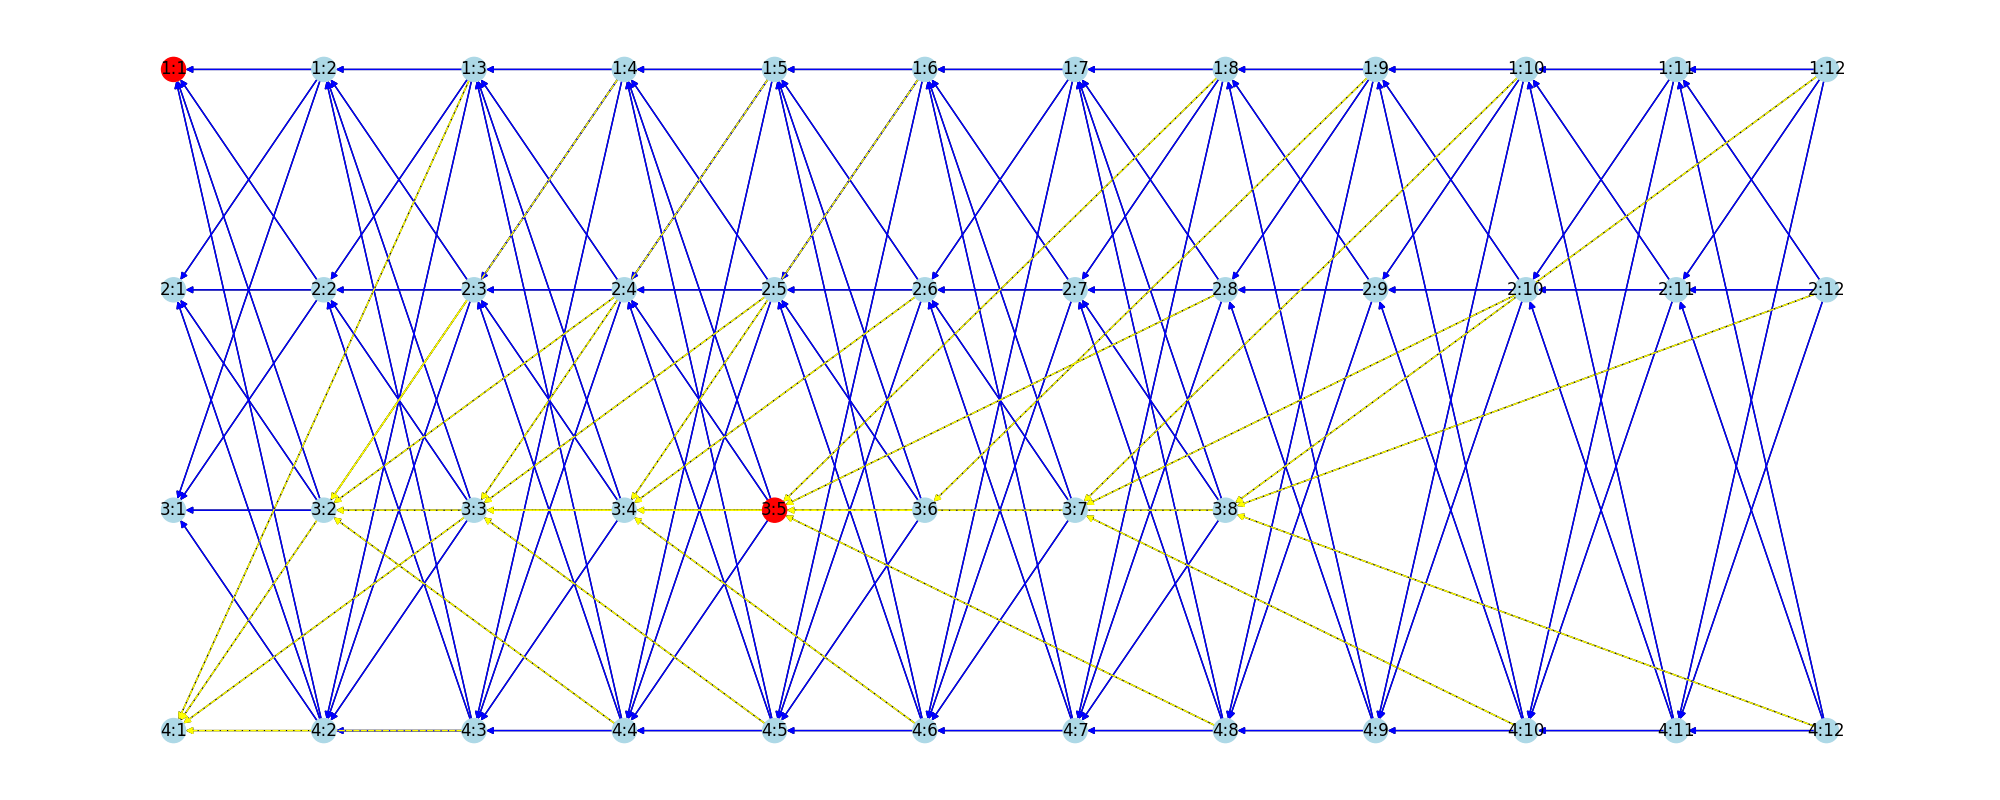
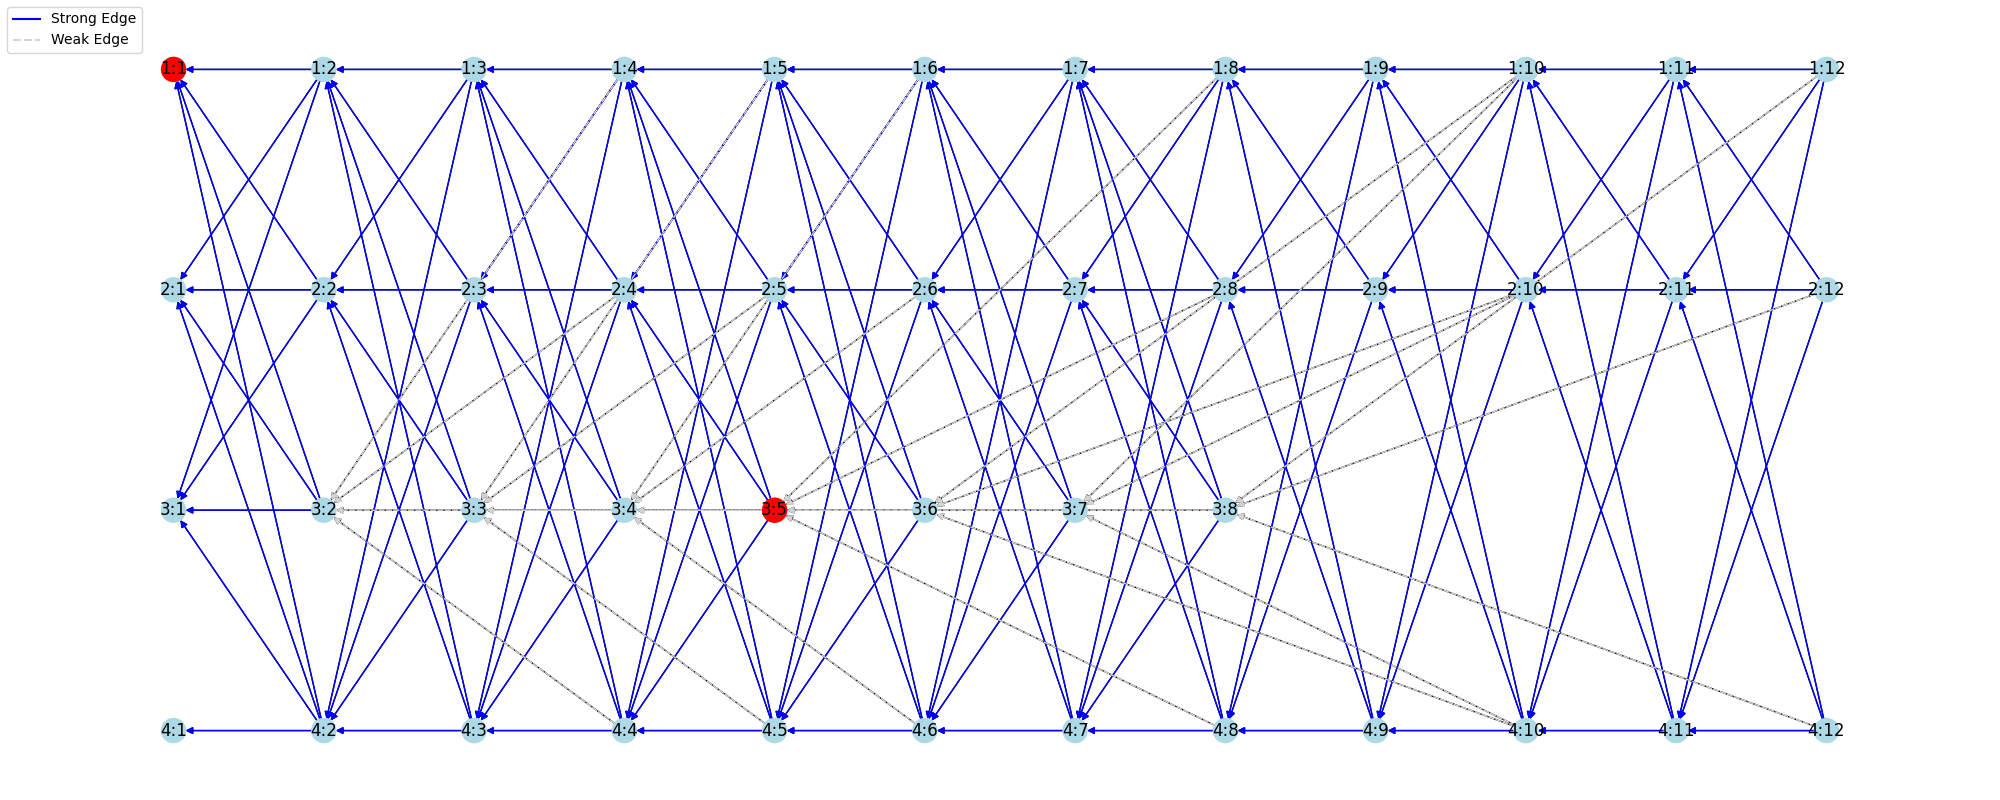
fetch more dag snapshots

diff --git a/DCDN_Node_Configuration/application.py b/DCDN_Node_Configuration/application.py
@@ -21,6 +21,7 @@ import random
 from secretshare import Secret, SecretShare, Share
 import networkx as nx
 import matplotlib.pyplot as plt
+import matplotlib.lines as mlines
 
 app = Flask(__name__)
 logging.basicConfig(level = logging.INFO) 
@@ -632,6 +633,8 @@ def wave_ready(w):
             leader_stack.push(leader_vertex_prime)
             leader_vertex = leader_vertex_prime
     decided_wave = w
+    if len(leader_stack)>1:
+        visualize_dag()
     order_vertices(leader_stack)
     
 def order_vertices(leader_stack):
@@ -669,7 +672,8 @@ def order_vertices(leader_stack):
                     if not file_exists:
                         writer.writerow(['Nnodes', 'TimeIdentified', 'TimeBlocked', 'TimeDelta'])                    
                     writer.writerow([my_node.total_nodes, identified_time, block_time, block_time-identified_time])
-        
+                visualize_dag()
+                
     unblock_file_name = f"metrics/unblock_time_delta_node_{my_node.node_id}.csv"
     file_exists = os.path.exists(unblock_file_name)
     
@@ -683,7 +687,8 @@ def order_vertices(leader_stack):
                     if not file_exists:
                         writer.writerow(['Nnodes', 'TimeIdentified', 'TimeUnblocked', 'TimeDelta'])                    
                     writer.writerow([my_node.total_nodes, identified_time, unblock_time, unblock_time-identified_time])
-    
+                visualize_dag()
+                
     request_rate_track.update_blocklist(my_node.ips_to_block)
     
 def a_deliver(vertex):
@@ -908,9 +913,18 @@ def visualize_dag():
     nx.draw_networkx_edges(G, pos, edgelist=strong_edges, edge_color='blue')
     
     weak_edges = [(u, v) for u, v, d in G.edges(data=True) if d['edge_type'] == 'weak']
-    nx.draw_networkx_edges(G, pos, edgelist=weak_edges, edge_color='yellow', style='dashed')
+    nx.draw_networkx_edges(G, pos, edgelist=weak_edges, edge_color='lightgrey', style='dashed')
             
     plt.title('DAG of vertices')
+    
+    # Create custom lines for the legend to represent what each line style means
+    strong_edge_legend = mlines.Line2D([], [], color='blue', linestyle='solid', label='Strong Edge')
+    weak_edge_legend = mlines.Line2D([], [], color='lightgrey', linestyle='dashed',  label='Weak Edge')
+
+    # Add the legend to the plot
+    plt.legend(handles=[strong_edge_legend, weak_edge_legend], loc='upper left')
+    
+    # plt.tight_layout()
     plt.savefig(f"plot_node{my_node.node_id}_{visualize_counter}.png")
     visualize_counter +=1
     logging.info("DAG visualization completed")

diff --git a/DCDN_Node_Configuration/rate_track_test.py b/DCDN_Node_Configuration/rate_track_test.py
@@ -1,0 +1,32 @@
+'''
+This script will make a request of 200 in a 5 min window period.
+'''
+import requests
+import time
+
+def send_requests(target_url, uri_list, total_requests):
+    '''
+    The function makes a total of 'total_requests' requests within window_seconds 
+    The request uri is distributed equally among all the uris in the uri_list
+    '''
+    ind = 0
+    total_uri = len(uri_list)
+    for i in range(1, total_requests+1):
+        try:
+            response = requests.get(target_url+uri_list[ind])
+            print(f"{time.asctime()} Request {i}: Status Code {response.status_code}")
+        except requests.exceptions.RequestException as e:
+            print(f"Request {i}: Failed with error {e}")
+        ind = (ind + 1)%total_uri
+        time.sleep(0.5)
+    
+if __name__ == "__main__":
+    target_ips = ['54.215.43.60','34.201.142.18','52.74.244.78','18.132.44.229']
+    uri_list = ['/', '/project_overview', '/problem_statement', '/architecture', '/application_components', '/metrics', '/testing' ]# Replace with your desired endpoint
+    request_count = 1000  # Number of requests
+
+    ip = target_ips[0]
+    
+    print(f"Targeting IP : {ip}")
+    send_requests('http://'+ ip, uri_list, request_count)
+    
